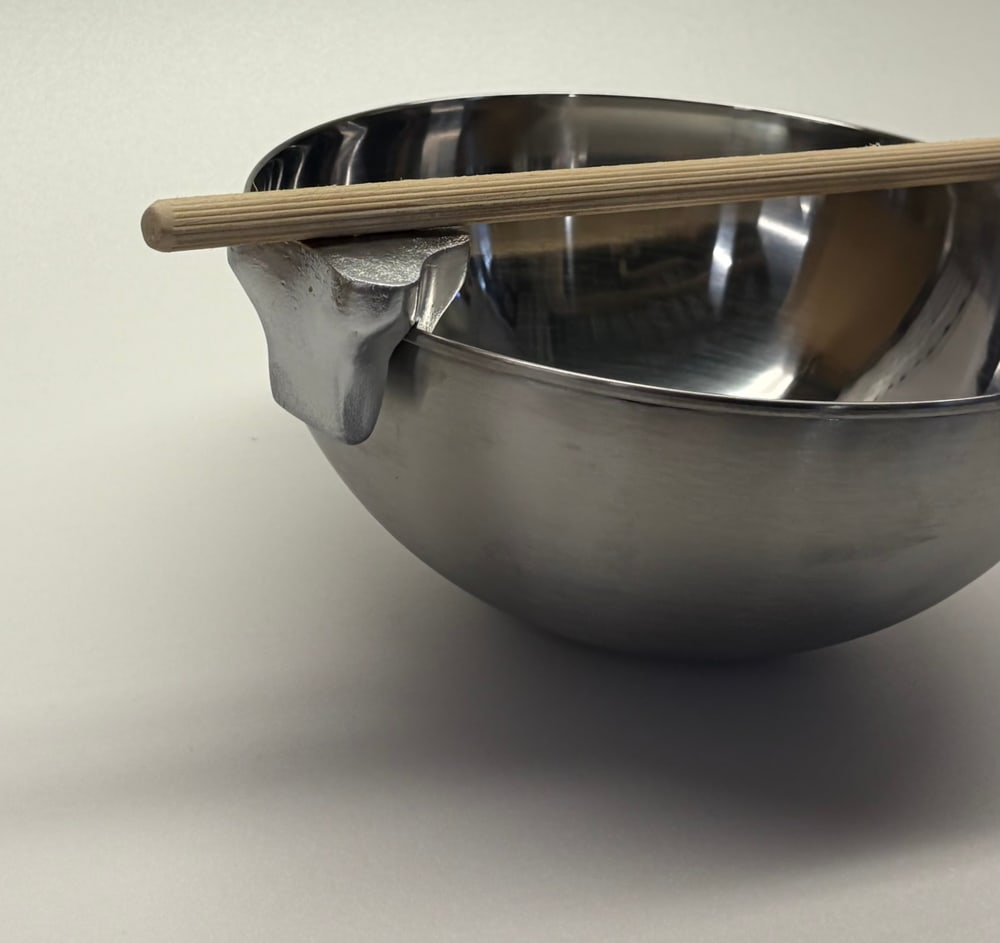
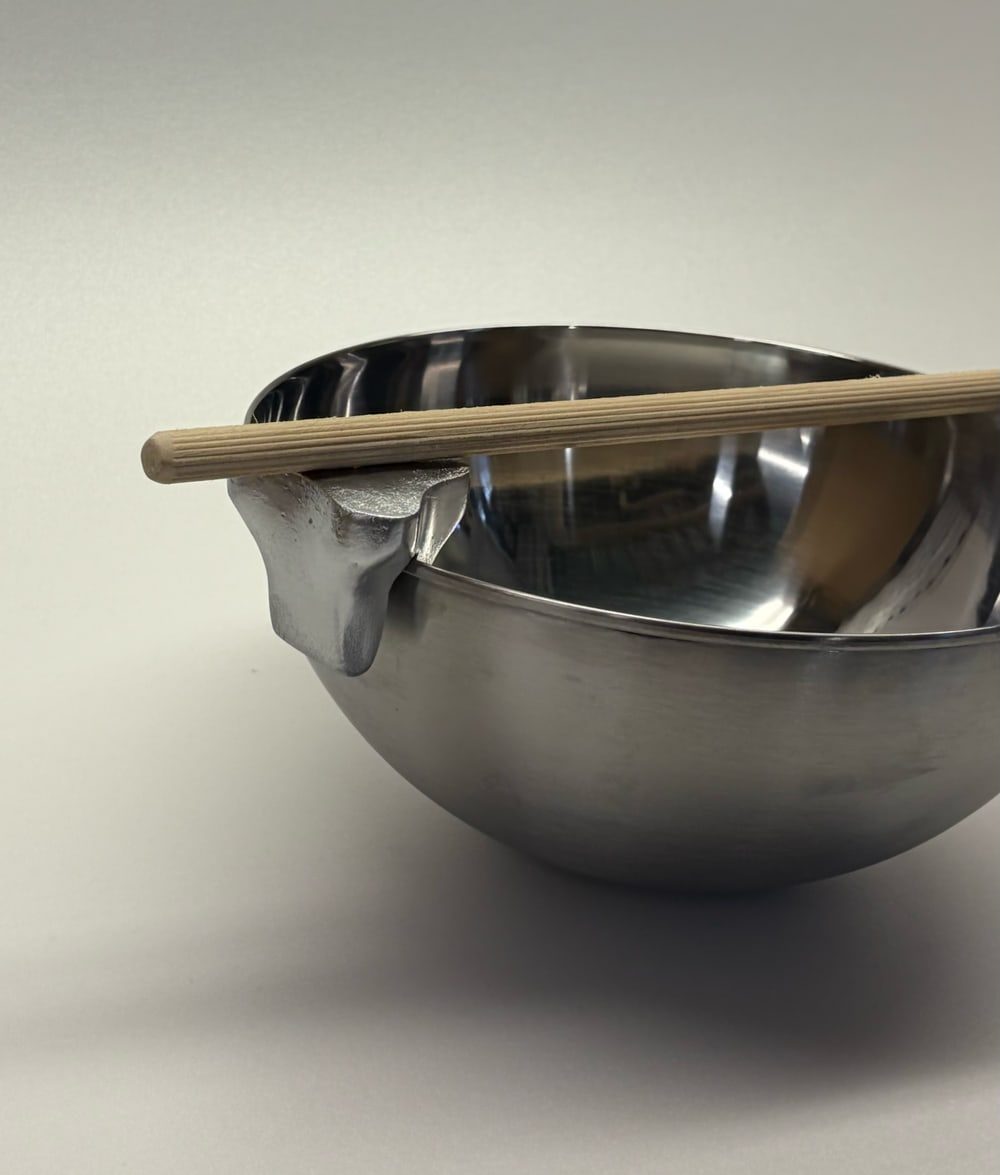
The rim shot starts at its heading, and the brief loses its widow
TWO THINGS, ONE SECTION APART.

1. THE TESTING PHOTOGRAPH NOW SPANS HEADING TO LAST LINE. Jack: "uncrop
the top enough so that it hits the top of the word testing and the bottom
still hits the bottom of the last sentence." Matched to the prose alone it
started 63px below the heading, so the two columns began on different
lines and the band read as text with a thumbnail beside it rather than as
two columns.

The heading moves INSIDE .cs-split for it (asideTop, a flag only this
section carries), so the figure can span two grid rows and reach the top
of the word. The alternative was a negative top on the figure, and that is
the lifted-photograph bug one layer up: the number would be .cs-h's height
plus its 26px margin, which is a clamp of the viewport AND deeper in
Japanese, so one value would be a near miss in at least one of the four.
Two rows is no value at all - the rows measure themselves.

Both placements in column one are explicit, which is not belt and braces:
with the heading pinned at 1/1, auto-placement's next free cell is row 1
COLUMN 2, so the prose would land in the photograph's track.

AND THE SPAN HAD TO BE UNDONE AT ITS OWN WEIGHT WHEN IT STACKS. The ≤900
reset is .cs-split-end .cs-figs (0-2-0) and the span is 0-3-0, so the
reset lost and the figure was placed back over the heading and the prose
in the only column there is - measured at 390 it came out 6x6, its two
borders and nothing between them. The same shape as the grid-column bug
[…]

diff --git a/script.js b/script.js
@@ -457,26 +457,52 @@ const projectData = {
           /* asideEnd here too. Jack: "adjust the photo so it is in line
              well and not unnecessarily under the text to the left of it."
              It was 342x321 beside 256 of prose, so it hung 65px below the
-             argument it illustrates. Scaled to the text it is 271x256 in
-             English - smaller, and level. */
-          html: 'proj.pot-clip.cs.testing.b', aside: true, asideEnd: true,
-          /* OUT OF ITS PHONE FRAME. The source is 3213x5712 held upright
-             and the object only occupies y 2877-4850 of it, so the top 45%
-             of the 9:16 export was empty ground - which is why it drew 600
-             tall beside 256 of prose. A 2613x2465 window at 600,2631 of the
-             original puts 10% of clear frame above and below the bowl and
-             leaves the rod's left end 47px of air at output scale; the bowl
-             runs off the right edge in the source, so that edge stays flush
-             the way the masthead's does.
-               NEAR-SQUARE IS AS TIGHT AS THIS SUBJECT GOES. The object's own
-             bounding box is 2244x2001, aspect 1.12, so a frame letterboxed
-             enough to match the prose exactly would have no margin left to
-             give it. At 340x321 it sits 37-93px over the prose depending on
-             the language, against Research's 34 - the same ragged bottom,
-             not a column of photograph. */
+             argument it illustrates.
+               AND asideTop, WHICH ONLY THIS SECTION HAS. Jack: "uncrop the
+             top enough so that it hits the top of the word testing and the
+             bottom still hits the bottom of the last sentence." Matched to
+             the prose alone, the picture started 63px below the heading, so
+             the two columns began on different lines and the band read as
+             text with a thumbnail beside it rather than as two columns.
+             Spanning heading to last line it is one rectangle, and both
+             edges are something a reader can see.
+               RESEARCH DELIBERATELY DOES NOT TAKE IT, and the reason is
+             arithmetic rather than taste: its notes are 548-573 tall, so
+             the span would be 611-636, and at 901 that asks for a ratio of
+             0.53 where the storefront is 0.5625. The cap would fire and the
+             bottom would stop landing on the last line - which is the one
+             thing Jack asked that photograph for. */
+          html: 'proj.pot-clip.cs.testing.b',
+          aside: true, asideEnd: true, asideTop: true,
+          /* OUT OF ITS PHONE FRAME, AND THEN A QUARTER OF THE TOP PUT
+             BACK. The source is 3213x5712 held upright and the object only
+             occupies y 2877-4850 of it, so the top 45% of the 9:16 export
+             was empty ground - which is why it drew 600 tall beside 256 of
+             prose. A 2613x2465 window at 600,2631 fixed that, and took with
+             it the height this pass needs: heading-to-last-line asks for
+             319-394px of figure depending on the language and the width,
+             and at 1.06 that is 338-418 wide in a 340 column, so the cap
+             would fire and the bottom would not land.
+               SO THE WINDOW GREW UPWARD AND ONLY UPWARD: 2613x3070 at
+             600,2026. The same bottom edge, the same sides, 591px more wall
+             above the bowl - which is what "uncrop the top" means in the
+             source rather than in the layout. The bowl still runs off the
+             right edge the way the masthead's does.
+               WHY 0.851. The binding case is the narrowest two-column
+             width, 901, in the longest language: the prose is 435 wide
+             there, so the span is 394px and the figure may be 334 of image
+             plus its two 3px borders. 334/388 = 0.861 is the ceiling; 0.851
+             leaves 4px of it and exports as 1000x1175. At 1440 in English
+             that draws 273 wide against 271 before - the same width it had,
+             63px taller, which is the whole point of taking it off the top.
+               THE OBJECT IS NOW LOW IN THE FRAME and that is not an
+             oversight: 837px of wall above it and 246 below. Its own
+             bounding box is 2244x2001, so there was never room to balance
+             this crop and keep the subject big; the air goes where the
+             layout needed it. */
           figures: [
-            { src: '/assets/projects/pot-clip/cs-rim.jpg?v=1d1c3603', w: 1000, h: 943,
-              full: '/assets/projects/pot-clip/cs-rim.jpg?v=1d1c3603',
+            { src: '/assets/projects/pot-clip/cs-rim.jpg?v=ad5f1cbd', w: 1000, h: 1175,
+              full: '/assets/projects/pot-clip/cs-rim.jpg?v=ad5f1cbd',
               altKey: 'proj.pot-clip.cs.alt.rim' },
           ] },
 
@@ -1212,8 +1238,24 @@ function renderCaseStudy(data) {
      goes back to the second item in the list rather than into the section
      they just asked for. Same fix as the hero's tabindex="-1". */
   const section = (sec) => {
+    /* `asideTop` puts the HEADING inside the split with the prose, so the
+       photograph beside them starts at the top of the word rather than at
+       the top of the first paragraph. Jack, on Testing: "uncrop the top
+       enough so that it hits the top of the word testing and the bottom
+       still hits the bottom of the last sentence."
+         A WRAPPER RATHER THAN A LIFT ON THE FIGURE, for the reason that
+       has already decided this twice in this section: a negative margin
+       would be the heading's height plus its margin, which is a different
+       number in Japanese (Noto Sans JP's line box is deeper) and at every
+       step of .cs-h's clamp. Inside the grid it is no number at all - the
+       figure spans two rows and the rows measure themselves.
+         The <h3> is still the section's first content and still its only
+       heading. It is one div further down, which nothing reads: the rule
+       above it belongs to .cs-section, the contents links scroll to the
+       section, and the heading order is unchanged. */
+    const head = csText('h3', 'cs-h', sec.title);
     let out = '<section class="cs-section" id="cs-' + escapeAttr(sec.id)
-      + '" tabindex="-1">' + csText('h3', 'cs-h', sec.title);
+      + '" tabindex="-1">' + (sec.asideTop ? '' : head);
     /* `aside` puts the figures BESIDE the prose instead of under it. Two
        sections want it. Research is four definition pairs and so the
        tallest column of plain text on the page, with a portrait photograph
@@ -1237,7 +1279,8 @@ function renderCaseStudy(data) {
        before. Jack: "move them to under the posters." */
     out += sec.aside
       ? '<div class="cs-split' + (sec.asideEnd ? ' cs-split-end' : '')
-          + '">' + prose + figs(sec.figures) + '</div>'
+          + (sec.asideTop ? ' cs-split-top' : '') + '">'
+          + (sec.asideTop ? head : '') + prose + figs(sec.figures) + '</div>'
       : (sec.textBelow ? '' : prose);
     if (sec.quote) out += csText('blockquote', 'cs-quote', sec.quote);
     /* The caption says out loud what the finger nudge only hints at, and

diff --git a/styles.css b/styles.css
@@ -3243,7 +3243,30 @@ body.is-loading { overflow: hidden; }
   font-family: var(--ff-display); font-size: 0.95rem; letter-spacing: 1.4px;
   text-transform: uppercase; color: var(--accent); margin-bottom: 14px;
 }
-.cs-brief-b { font-size: clamp(1.05rem, 1.6vw, 1.35rem); line-height: 1.5; max-width: 54ch; margin: 0; }
+/* NO WIDOW ON THE LAST LINE. Jack: "in The brief section dont let there be
+   a hanging widow or whatever its called." In English it broke
+   "...on a store / shelf." - one word alone under two full lines, in the
+   one block on this page set at display size on a 54ch measure, where a
+   short last line is most visible.
+   `text-wrap: pretty` rather than a non-breaking space in the string,
+   because the string exists four times and the break depends on the width
+   as well as the language: measured at 1440 the last line runs 1 word in
+   English, 2 in Italian and 4 in Spanish, and a tie between two of those
+   would move at the next clamp step. The browser re-flows the last few
+   lines instead - English becomes "store shelf." and the other three are
+   untouched, which is the test that it is doing nothing it does not need
+   to.
+   NOT ON .cs-prose, deliberately. Those columns' heights are load-bearing
+   now that two photographs are sized from them, and a last-line rule that
+   can add a line is not something to put under a measurement without
+   being asked. This is one paragraph in a box.
+   Where it is unsupported the paragraph wraps exactly as it does today, so
+   there is nothing to fall back to. */
+.cs-brief-b {
+  font-size: clamp(1.05rem, 1.6vw, 1.35rem); line-height: 1.5;
+  max-width: 54ch; margin: 0;
+  text-wrap: pretty;
+}
 
 /* ---- contents beside the sections ------------------------------------- */
 .cs-main { display: grid; grid-template-columns: 240px 1fr; gap: 72px; align-items: start; }
@@ -3380,6 +3403,35 @@ body.is-loading { overflow: hidden; }
   max-height: calc((var(--aside-col) - 6px) / (var(--fig-ar)) + 6px);
 }
 .cs-split-end .cs-fig img { height: 100%; width: auto; }
+
+/* ---- and the sibling that STARTS with the heading ---------------------
+   `asideTop` is the other end of the same instruction. Jack: "uncrop the
+   top enough so that it hits the top of the word testing and the bottom
+   still hits the bottom of the last sentence."
+   THE HEADING COMES INSIDE THE GRID for it, so the figure can span two
+   rows and reach the top of the word. The alternative was a negative
+   top on the figure, and it is the lifted-photograph bug one layer up:
+   the number would be .cs-h's height plus its 26px margin, which is a
+   clamp of the viewport AND deeper in Japanese, so one value would be a
+   near miss in at least one of the four languages. Two rows is no value
+   at all - the rows measure themselves, and 0.0/0.0 falls out in en, es,
+   ja and it alike.
+   ROW-GAP 0, because .cs-split's 36px gap applies to rows as well as
+   columns and .cs-h already carries the 26px that separates it from its
+   prose everywhere else on the page. Stated at 0-2-0: it narrows a rule
+   of equal weight, and source order has cost this file a commit four
+   times.
+   The placements are explicit for BOTH items in column one. Auto-placement
+   cannot be left to fill in the second: with the heading pinned at 1/1 the
+   cursor's next free cell is row 1 column 2, so the prose would land in
+   the photograph's track. */
+.cs-split.cs-split-top { row-gap: 0; }
+.cs-split-top .cs-h { grid-column: 1; grid-row: 1; }
+.cs-split-top .cs-prose, .cs-split-top .cs-prose-p { grid-column: 1; grid-row: 2; }
+/* Rows 1 AND 2 - the grid area is the figure's containing block, so this
+   is what takes top: 0 / bottom: 0 from the top of the heading to the
+   last descender instead of to the top of the first paragraph. */
+.cs-split-end.cs-split-top .cs-figs { grid-row: 1 / span 2; }
 /* "the bottom of it hits the bottom of the last line" — and the last
    definition's own 18px bottom margin was standing between the two, so
    the picture bottomed out on the BLOCK and sat 20.6px under the last
@@ -3407,6 +3459,15 @@ body.is-loading { overflow: hidden; }
     position: static; grid-column: auto; grid-row: auto;
     margin-top: 26px; display: grid;
   }
+  /* AND THE TWO-ROW SPAN HAS TO BE UNDONE AT ITS OWN WEIGHT. The rule
+     above is 0-2-0 and asideTop's is 0-3-0, so the reset lost and the
+     span survived into the stacked layout: measured at 390 the figure
+     came out 6x6 - its two borders and nothing between them - because it
+     was placed back over the heading and the prose in the only column
+     there is. Same shape as the grid-column bug the rule above exists
+     for, one specificity step up. Undo everything the rule set, at the
+     weight it set it. */
+  .cs-split-end.cs-split-top .cs-figs { grid-row: auto; }
   /* max-height goes with the height, and forgetting it was the same bug
      one layer down: the cap is the column's width over the ratio, and
      stacked there is no 340px column - the figure is the whole measure.

diff --git a/CLAUDE.md b/CLAUDE.md
@@ -1781,7 +1781,12 @@ Finding sentence, which is where it had been saying the same thing twice
 only user of `stats`**, so the renderer branch, the four CSS rules and the
 sixteen i18n keys came out with it rather than being left idle — the same
 call as `titleTop`, and all of it is in `docs/pot-clip-masonry.md`. Testing
-is **835 → 556 → 433** over the three passes.
+is **835 → 556 → 362** over the three passes — and 362 is also what it
+measures after `asideTop`, because the figure was out of flow before the
+change and is out of flow after it, so starting at the heading costs the
+page no height at all. (The 433 this line quoted was measured some other
+way; the committed build before `asideTop` measures 362 at 1440 in
+English, checked against `git stash`.)
 
 **POSTERS IS "POSTERS", AND THE TEXT IS UNDER THE PICTURES.** It was
 "Posters and packaging" over a one-line description; there is no packaging
@@ -1944,8 +1949,39 @@ Research is **711 → 654** across the two changes.
 **AND TESTING TOOK THE SAME FLAG.** Jack: *"adjust the photo so it is in
 line well and not unnecessarily under the text to the left of it."* It was
 342×321 beside 256 of prose, hanging 65px below the argument it
-illustrates; scaled to the text it is 271×256 in English, and 0.0 top and
-0.0 bottom in all four languages.
+illustrates; scaled to the text it came to 271×256 in English, and 0.0 top
+and 0.0 bottom in all four languages.
+
+**THEN TESTING TOOK `asideTop` AS WELL, AND IT IS THE ONLY SECTION THAT
+HAS.** Jack: *"uncrop the top enough so that it hits the top of the word
+testing and the bottom still hits the bottom of the last sentence."*
+Matched to the prose alone the picture started **63px below the heading**,
+so the two columns began on different lines and the band read as text with
+a thumbnail beside it rather than as two columns.
+**The heading moves INSIDE `.cs-split` for it**, so the figure can span two
+grid rows and reach the top of the word. A negative `top` on the figure was
+the other way and it is the lifted-photograph bug one layer up: the number
+would be `.cs-h`'s height plus its 26px margin, which is a clamp of the
+viewport *and* deeper in Japanese, so one value would be a near miss in at
+least one language. Two rows is no value at all — the rows measure
+themselves. Measured **0.00 top and 0.00 bottom in all four languages at
+1440, 1100 and 901.**
+**Both placements are explicit, and that is not belt and braces**: with the
+heading pinned at 1/1, auto-placement's next free cell is row 1 *column 2*,
+so the prose would land in the photograph's track.
+**AND THE TWO-ROW SPAN HAS TO BE UNDONE AT ITS OWN WEIGHT WHEN IT STACKS.**
+`.cs-split-end .cs-figs { grid-row: auto }` in the ≤900 block is 0-2-0 and
+the span is 0-3-0, so the reset lost and the figure was placed back over
+the heading and the prose in the only column there is — measured at 390 it
+came out **6×6, its two borders and nothing between them.** The same shape
+as the `grid-column` bug that rule already exists for, one specificity step
+up, and the **fifth** time this file has had to say that specificity beats
+source order.
+**RESEARCH DELIBERATELY DOES NOT TAKE IT**, and the reason is arithmetic:
+its notes are 548–573 tall, so the span would be 611–636, and at 901 that
+asks for a ratio of 0.53 where the storefront is 0.5625. The cap would fire
+and the bottom would stop landing on the last line — the one thing Jack
+asked that photograph for.
 **THE SCALED FIGURE NEEDED A CAP, AND IT WAS ALREADY OVERFLOWING WITHOUT
 ONE.** Sized by height, a picture's width is its height times its ratio,
 and nothing stopped that exceeding the 340px track. Measured at 901 in
@@ -2036,14 +2072,30 @@ picture in a wide gap.
 to crop the height because it is quite tall."* The rim shot shipped as the
 full 9:16 phone frame, 1000×1778, and the object only occupies the middle of
 it — so under the prose it drew a screenful of photograph at the end of a
-three-point argument. Re-cropped near-square from the original it is 340×321
-against 256 of English prose, and the section went **835px tall to 556**.
-**Near-square is as tight as that subject goes**: its own bounding box is
-2244×2001 in the source, aspect 1.12, so a frame letterboxed enough to match
-the prose exactly would have no margin left to put around it. Measured in
-all four languages the prose runs 228–284 against the photograph's 321, so
-it is 37–93px over — Research's is 34 over. **The sibling column may be a
-little taller than the prose; it must not be twice it.**
+three-point argument. Re-cropped near-square from the original — a
+2613×2465 window at 600,2631 — it drew 340×321 against 256 of English
+prose, and the section went **835px tall to 556**.
+**THEN A QUARTER OF THAT TOP WENT BACK ON**, when `asideTop` asked the
+picture to start at the heading. Spanning heading to last line wants
+319–394px of figure depending on the language and the width, and at 1.06
+that is 338–418 wide in a 340 column — so the cap would fire and the bottom
+would not land. **The window grew upward and only upward: 2613×3070 at
+600,2026.** Same bottom edge, same sides, 591px more wall above the bowl,
+which is what "uncrop the top" means in the source rather than in the
+layout.
+**0.851 is the ceiling less 4px.** The binding case is the narrowest
+two-column width, 901, in the longest language: the prose is 435 wide
+there, so the span is 394px and the figure may be 334 of image plus its two
+3px borders — 334/388 = **0.861**. 0.851 exports as **1000×1175** and draws
+273 wide in English at 1440 against 271 before, so the picture is the width
+it already was and 63px taller. Measured, the cap never fires between 901
+and 1440 in any of the four: widths run 223–336 against the 340 track.
+**THE OBJECT IS LOW IN THE FRAME NOW AND THAT IS NOT AN OVERSIGHT** —
+837px of wall above it and 246 below. Its own bounding box is 2244×2001,
+aspect 1.12, so there was never room to balance this crop and keep the
+subject big; the air goes where the layout needed it. The file is 64KB
+jpeg / 36KB webp at 45.0 and 43.6 dB PSNR — 25% more pixels for 9% more
+bytes, because most of what was added is a smooth grey wall.
 **THE COPY IS METHOD / FINDING / IMPLICATION**, in Jack's words, replacing a
 two-item list headed "Fit testing" and "Product photography" — which named
 what he DID twice and what he LEARNED nowhere. The rim is the finding and
@@ -2088,6 +2140,25 @@ carried on — and the brief is the one block early enough to belong there
 and short enough to fit. Measured after: the two columns end within 34px
 of each other. In the column it takes its 36px gap above instead of below,
 since the masthead's own 56px is what separates it from the summary cards.
+**AND IT CARRIES `text-wrap: pretty`, THE ONLY RULE ON THE PAGE THAT
+DOES.** Jack: *"in The brief section dont let there be a hanging widow or
+whatever its called."* English broke "…on a store / **shelf.**" — one word
+alone under two full lines, in the one block here set at display size on a
+54ch measure, where a short last line shows most.
+**A rule rather than a non-breaking space in the string**, because the
+string exists four times and the break depends on the width as well as the
+language: at 1440 the last line ran 1 word in English, 2 in Italian and 4
+in Spanish, and a tie between two of those moves at the next clamp step.
+Measured at 1440, 1200, 1101, 900, 600 and 390 in all three Latin
+languages, every last line now carries **two words or more**, English
+becomes "store shelf.", the other three are untouched, and the box is the
+same 199.7px tall — so nothing below it moved. (Japanese is one run with no
+word spaces and has no widow to fix.)
+**NOT ON `.cs-prose`, deliberately.** Those columns' heights are
+load-bearing now that two photographs are sized from them, and a last-line
+rule that can add a line does not belong under a measurement unless it is
+asked for. Where the property is unsupported the paragraph wraps exactly as
+it does today, so there is nothing to fall back to.
 
 **THE POSTER STARTS LEVEL WITH THE BACK BUTTON**, and is 4.4% smaller.
 *"Move the hero poster so that the top of it is at the same height as the
